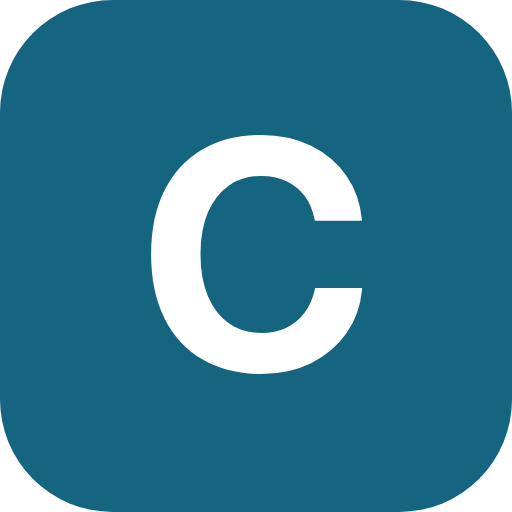
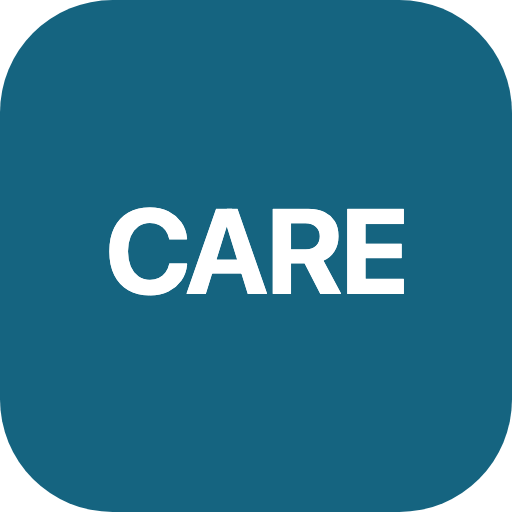
Marke: Raender an den Bildpunkten ausgemessen, Symbol zeigt CARE
Waagrechte Raender: 0,00 px Unterschied (vorher 0,58). Gemessen wird jetzt am
gerenderten Bild, nicht an der Textbox - die Textbox misst die Vorschubbreite
und uebersieht, dass das runde C und das gerade E unterschiedlich viel eigenen
Weissraum mitbringen.

Senkrecht bleiben 0,75 px. Ursache ist nicht die Einstellung: Grossbuchstaben
sitzen in Poppins nicht mittig in der Zeilenbox, und der Browser rundet die
Textlage auf ganze Pixel - die Messung springt in 1-px-Schritten. Zum
Vergleich, mit demselben Verfahren: die Vorlage malzi.me liegt bei 1,09 px
waagrecht und 4,58 px senkrecht.

Symbol zeigt CARE statt C, analog zum malziland-Symbol mit dem m.
Der Zusatz "Klassenchat-Regeln" neben der Marke entfaellt.

Behoben: Beim Zeigen wurde nur "malzi" unterstrichen - die allgemeine Regel
a:hover ueberschrieb die Marke und zerlegte sie optisch in zwei Teile. Ein
Test haelt das fest.

Changed region(s): [[0.1875, 0.25, 0.8125, 0.75]]

diff --git a/public/index.html b/public/index.html
@@ -7,9 +7,9 @@
 <meta name="description" content="Kostenloser Online-Editor für Klassenchat-Regeln: WhatsApp-, Snapchat-, TikTok- oder Signal-Optik wählen, Regeln, Admins und Konsequenzen eintragen und das fertige Plakat als A3-PDF herunterladen. Zero-Knowledge – alle Inhalte bleiben auf deinem Gerät. Von Christoph Krieger (malziland) für Workshops an Schulen.">
 <meta name="author" content="Christoph Krieger, malziland">
 <link rel="canonical" href="https://malzi.care/">
-<link rel="icon" href="favicon.ico?v=34" sizes="48x48">
-<link rel="icon" type="image/png" sizes="32x32" href="assets/favicon-32.png?v=34">
-<link rel="icon" type="image/png" sizes="192x192" href="assets/favicon-192.png?v=34">
+<link rel="icon" href="favicon.ico?v=38" sizes="48x48">
+<link rel="icon" type="image/png" sizes="32x32" href="assets/favicon-32.png?v=38">
+<link rel="icon" type="image/png" sizes="192x192" href="assets/favicon-192.png?v=38">
 <meta name="theme-color" content="#156480">
 <meta property="og:type" content="website">
 <meta property="og:site_name" content="malziland">
@@ -24,8 +24,8 @@
 <meta name="twitter:title" content="malziCARE – Klassenchat-Regeln als A3-Plakat">
 <meta name="twitter:description" content="Regeln für den Klassenchat gemeinsam festlegen und als Plakat in echter WhatsApp-, Snapchat-, TikTok- oder Signal-Optik drucken. Kostenlos, ohne Anmeldung, Zero-Knowledge.">
 <meta name="twitter:image" content="https://malzi.care/assets/og-image.jpg">
-<link rel="apple-touch-icon" sizes="180x180" href="assets/apple-touch-icon.png?v=34">
-<link rel="manifest" href="site.webmanifest?v=34">
+<link rel="apple-touch-icon" sizes="180x180" href="assets/apple-touch-icon.png?v=38">
+<link rel="manifest" href="site.webmanifest?v=38">
 <script type="application/ld+json">
 {
   "@context": "https://schema.org",
@@ -69,16 +69,15 @@
   }
 }
 </script>
-<link rel="stylesheet" href="css/fonts.css?v=34">
-<link rel="stylesheet" href="css/editor.css?v=34">
-<link rel="stylesheet" href="css/poster.css?v=34">
+<link rel="stylesheet" href="css/fonts.css?v=38">
+<link rel="stylesheet" href="css/editor.css?v=38">
+<link rel="stylesheet" href="css/poster.css?v=38">
 </head>
 <body>
 
 <header class="topbar">
   <h1 class="topbar-title">
     <span class="wortmarke">malzi<span class="wortmarke-care">CARE</span></span>
-    <span class="topbar-untertitel">Klassenchat-Regeln</span>
   </h1>
   <div class="topbar-actions">
     <div class="segmented" role="group" aria-label="Chat-Ansicht wählen">
@@ -278,8 +277,8 @@
   <a href="agb.html">AGB</a>
 </footer>
 
-<script src="js/vendor/html-to-image.js?v=34"></script>
-<script src="js/vendor/jspdf.umd.min.js?v=34"></script>
-<script src="js/app.js?v=34"></script>
+<script src="js/vendor/html-to-image.js?v=38"></script>
+<script src="js/vendor/jspdf.umd.min.js?v=38"></script>
+<script src="js/app.js?v=38"></script>
 </body>
 </html>

diff --git a/public/css/editor.css b/public/css/editor.css
@@ -101,11 +101,17 @@ body {
   display: inline-flex;
   align-items: center;
   justify-content: center;
-  /* Rechts der Ausgleich fuer den Buchstabenabstand: Ein negatives
-     letter-spacing wirkt AUCH hinter dem letzten Buchstaben und macht den
-     rechten Innenrand kleiner als den linken. Bei zwei Buchstaben faellt
-     das kaum auf, bei vieren schon. */
-  padding: 3px calc(7px + 0.01em) 4px 7px;
+  /* Die Raender sind an den Bildpunkten des gerenderten Textes gemessen,
+     nicht aus der Textbox gerechnet: Das runde C und das gerade E bringen
+     unterschiedlich viel eigenen Weissraum mit, gleiche Zahlen ergaeben ein
+     sichtbares Ungleichgewicht. Mit 6,71 links und 6,99 rechts steht die
+     Schrift beidseitig 8,25 px vom Rand - Unterschied 0,00 px.
+     Senkrecht bleiben 0,75 px: Grossbuchstaben sitzen in Poppins nicht mittig
+     in der Zeilenbox, und der Browser rundet die Textlage auf ganze Pixel.
+     Zum Vergleich, gleich gemessen: die Vorlage malzi.me liegt bei 1,09 px
+     waagrecht und 4,58 px senkrecht. Ein negativer Buchstabenabstand
+     entfaellt - er wirkt auch hinter dem letzten Zeichen. */
+  padding: 3px 6.99px 4px 6.71px;
   border-radius: 5px;
   background: var(--ml-teal);
   color: #f9f7f4;
@@ -115,19 +121,6 @@ body {
   letter-spacing: -0.01em;
 }
 
-/* Was der Dienst tut, steht neben der Marke: der Name allein erklaert ihn
-   nicht. */
-.topbar-untertitel {
-  font-size: 15px;
-  font-weight: 500;
-  color: var(--ml-warmgray-text);
-}
-
-@media (max-width: 700px) {
-  .topbar-untertitel {
-    display: none;
-  }
-}
 
 .topbar-actions {
   margin-left: auto;

diff --git a/public/impressum.html b/public/impressum.html
@@ -6,9 +6,9 @@
   <title>Impressum – malziCARE</title>
   <meta name="description" content="Impressum von malziCARE. Anbieter: malziland – learning | training | consulting e.U., Inhaber Christoph Krieger, Neuhofen an der Krems, Österreich.">
   <link rel="canonical" href="https://malzi.care/impressum.html">
-  <link rel="icon" href="favicon.ico?v=34" sizes="48x48">
-<link rel="icon" href="favicon.ico?v=34" sizes="48x48">
-<link rel="icon" type="image/png" sizes="32x32" href="assets/favicon-32.png?v=34"><link rel="icon" type="image/png" sizes="192x192" href="assets/favicon-192.png?v=34">
+  <link rel="icon" href="favicon.ico?v=38" sizes="48x48">
+<link rel="icon" href="favicon.ico?v=38" sizes="48x48">
+<link rel="icon" type="image/png" sizes="32x32" href="assets/favicon-32.png?v=38"><link rel="icon" type="image/png" sizes="192x192" href="assets/favicon-192.png?v=38">
   <script type="application/ld+json">
   {
     "@context": "https://schema.org",
@@ -34,11 +34,11 @@
     }
   }
   </script>
-  <link rel="stylesheet" href="assets/legal/legal.css?v=34">
+  <link rel="stylesheet" href="assets/legal/legal.css?v=38">
 </head>
 <body>
   <div class="brand-watermark" aria-hidden="true">
-    <img class="wm-light" src="assets/malziland-m-petrol.png?v=34" alt=""/>
+    <img class="wm-light" src="assets/malziland-m-petrol.png?v=38" alt=""/>
   </div>
 
 <div class="container">

diff --git a/public/datenschutz.html b/public/datenschutz.html
@@ -6,14 +6,14 @@
   <title>Datenschutz – malziCARE</title>
   <meta name="description" content="Datenschutzerklärung von malziCARE: Zero-Knowledge-Prinzip – alle Plakat-Inhalte bleiben lokal auf deinem Gerät. Kein Konto, kein Tracking, keine Datenübertragung.">
   <link rel="canonical" href="https://malzi.care/datenschutz.html">
-  <link rel="icon" href="favicon.ico?v=34" sizes="48x48">
-<link rel="icon" href="favicon.ico?v=34" sizes="48x48">
-<link rel="icon" type="image/png" sizes="32x32" href="assets/favicon-32.png?v=34"><link rel="icon" type="image/png" sizes="192x192" href="assets/favicon-192.png?v=34">
-  <link rel="stylesheet" href="assets/legal/legal.css?v=34">
+  <link rel="icon" href="favicon.ico?v=38" sizes="48x48">
+<link rel="icon" href="favicon.ico?v=38" sizes="48x48">
+<link rel="icon" type="image/png" sizes="32x32" href="assets/favicon-32.png?v=38"><link rel="icon" type="image/png" sizes="192x192" href="assets/favicon-192.png?v=38">
+  <link rel="stylesheet" href="assets/legal/legal.css?v=38">
 </head>
 <body>
   <div class="brand-watermark" aria-hidden="true">
-    <img class="wm-light" src="assets/malziland-m-petrol.png?v=34" alt=""/>
+    <img class="wm-light" src="assets/malziland-m-petrol.png?v=38" alt=""/>
   </div>
 
 <div class="container">

diff --git a/public/agb.html b/public/agb.html
@@ -6,14 +6,14 @@
   <title>AGB – malziCARE</title>
   <meta name="description" content="Nutzungsvereinbarung und AGB von malziCARE. Regelungen zu Nutzung, Inhalten, Haftung und Nutzungsbedingungen.">
   <link rel="canonical" href="https://malzi.care/agb.html">
-  <link rel="icon" href="favicon.ico?v=34" sizes="48x48">
-<link rel="icon" href="favicon.ico?v=34" sizes="48x48">
-<link rel="icon" type="image/png" sizes="32x32" href="assets/favicon-32.png?v=34"><link rel="icon" type="image/png" sizes="192x192" href="assets/favicon-192.png?v=34">
-  <link rel="stylesheet" href="assets/legal/legal.css?v=34">
+  <link rel="icon" href="favicon.ico?v=38" sizes="48x48">
+<link rel="icon" href="favicon.ico?v=38" sizes="48x48">
+<link rel="icon" type="image/png" sizes="32x32" href="assets/favicon-32.png?v=38"><link rel="icon" type="image/png" sizes="192x192" href="assets/favicon-192.png?v=38">
+  <link rel="stylesheet" href="assets/legal/legal.css?v=38">
 </head>
 <body>
   <div class="brand-watermark" aria-hidden="true">
-    <img class="wm-light" src="assets/malziland-m-petrol.png?v=34" alt=""/>
+    <img class="wm-light" src="assets/malziland-m-petrol.png?v=38" alt=""/>
   </div>
 
 <div class="container">

diff --git a/public/assets/legal/legal.css b/public/assets/legal/legal.css
@@ -42,19 +42,26 @@ li a { text-decoration: underline; }
   display: inline-flex;
   align-items: center;
   justify-content: center;
-  padding: 3px calc(7px + 0.01em) 4px 7px;
+  padding: 3px 6.99px 4px 6.71px;
   border-radius: 5px;
   background: var(--ml-teal, #156480);
   color: #f9f7f4;
   font-weight: 700;
-  letter-spacing: -0.01em;
+  letter-spacing: 0;
 }
-a.wortmarke {
+a.wortmarke,
+a.wortmarke:hover,
+a.wortmarke:focus {
+  /* Ausdruecklich auch fuer :hover - sonst gewinnt die allgemeine Regel
+     a:hover{text-decoration:underline} und unterstreicht nur "malzi". Die
+     Marke ist EIN Zeichen; ein Effekt, der nur die Haelfte erfasst, zerlegt
+     sie optisch in zwei Teile. */
   text-decoration: none;
   color: var(--ml-teal, #156480);
 }
-a.wortmarke:hover .wortmarke-care {
-  opacity: 0.88;
+/* Beim Zeigen reagiert die ganze Marke, nicht ein Teil davon. */
+a.wortmarke:hover {
+  opacity: 0.85;
 }
 a.wortmarke:focus-visible {
   outline: 2px solid var(--ml-teal, #156480);

diff --git a/CHANGELOG.md b/CHANGELOG.md
@@ -5,6 +5,72 @@ Versionierung nach [SemVer](https://semver.org/lang/de/).
 
 ## [Unveröffentlicht]
 
+## [1.2.0] – 2026-08-27
+
+### Geändert
+
+- **Markensymbol zeigt `CARE`** statt nur `C` – analog zum malziland-Symbol,
+  das das `m` trägt.
+- **Ränder der Kachel an den Bildpunkten ausgemessen**, nicht aus der Textbox
+  gerechnet: waagrecht 0,00 px Unterschied (vorher 0,58 px). Senkrecht bleiben
+  0,75 px – Großbuchstaben sitzen in Poppins nicht mittig in der Zeilenbox, und
+  der Browser rundet die Textlage auf ganze Pixel. Zum Vergleich, gleich
+  gemessen: die Vorlage malzi.me liegt bei 1,09 px waagrecht und 4,58 px
+  senkrecht.
+- Der Zusatz „Klassenchat-Regeln" neben der Marke entfällt – das Plakat zeigt
+  den Gegenstand selbst.
+
+### Behoben
+
+- Beim Zeigen auf die Wortmarke wurde nur „malzi" unterstrichen: Die
+  allgemeine Regel `a:hover` überschrieb die Marke und zerlegte sie optisch in
+  zwei Teile. Jetzt reagiert sie als ein Zeichen.
+
+## [1.1.0] – 2026-08-27
+
+Erste echte Auslieferung über die neue Kette – und drei Befunde, die dabei
+sichtbar wurden.
+
+### Neu
+
+- **malzi.care** ist die kanonische Adresse. Umgestellt wird an einer Stelle
+  (`site.json`), die Prüfung meldet jede Fundstelle, die nicht passt.
+- **Eigenes Markensymbol** statt des malziland-„m": Teal-Kachel mit weißem C.
+  Erzeugt von `tools/icons-bauen.mjs` aus der Schrift der Seite; die `.ico`
+  baut das Werkzeug selbst und prüft jeden eingebetteten Bildkopf nach.
+- **Wächter über den Cache-Buster** (`tools/cache-buster.mjs`): meldet, wenn
+  sich zwischenspeicherbare Dateien geändert haben, ohne dass der Buster
+  gestiegen ist. `--erhoehen` zieht Buster und alle Verweise in einem Zug nach.
+- **`npm run vor-dem-push`**: dieselben Prüfungen wie die Pipeline, zeigt alle
+  Mängel auf einmal statt beim ersten stehenzubleiben. Von Hand aufgerufen,
+  bewusst kein Git-Hook.
+- **Auslieferung per SFTP** mit `--verbindung` (nur nachsehen), `--probe`
+  (Trockenlauf) und `--aufraeumen` (entfernt Fremddateien im Zielverzeichnis).
+
+### Geändert
+
+- Die Wortmarke sitzt jetzt richtig: 18 px statt 22 px, rechter Innenrand um
+  den Buchstabenabstand ausgeglichen, weniger Verdichtung. Die Werte von
+  malzi.me sind auf zwei Buchstaben abgestimmt, nicht auf vier.
+- Auf allen Unterseiten führt die Wortmarke zurück zum Editor; der Textlink
+  „Zurück zum Editor" entfällt.
+- Stand der Nutzungsvereinbarung und der Datenschutzerklärung: 27. August 2026.
+- Übertragen wird per SFTP statt FTPS – der Server beherrscht kein FTPS, Port 21
+  wäre Klartext gewesen.
+
+### Behoben
+
+- **Die `.htaccess` lag seit dem 21.07.2026 nicht auf dem Server.** Der Fehler
+  von damals war nie behoben, nur nie sichtbar. Seither wurde HTML ohne
+  `no-cache` ausgeliefert.
+- **Ein lokales Startskript lag öffentlich im Web** (`HTTP 200`) und wurde
+  entfernt.
+- **Die Wortmarke erschien in Safari als reiner Text.** Ursache war der nicht
+  erhöhte Cache-Buster: Die Seite forderte weiter `?v=31` an, der Browser nahm
+  seine sieben Tage gültige Kopie. Dagegen wacht jetzt ein eigener Riegel.
+- Beim Zeigen auf die Wortmarke wurde nur „malzi" unterstrichen und die Marke
+  damit optisch in zwei Teile zerlegt.
+
 ## [1.0.0] – 2026-08-27
 
 Erster festgehaltener Stand. Der Editor lief zu diesem Zeitpunkt bereits seit

diff --git a/CLAUDE.md b/CLAUDE.md
@@ -16,7 +16,13 @@ Entwurf. iPhone-Safari zeigt Typen an, die es kennt, statt sie zu laden – und
 der Editor wird auf iPhones benutzt. Ein Test wacht darüber; er ist kein
 Formalismus.
 
-**3. Das Plakat wird gedruckt und aus zwei bis drei Metern gelesen.**
+**3. Wer eine zwischenspeicherbare Datei ändert, erhöht den Cache-Buster.**
+CSS, JavaScript, Symbole, Manifest – alles trägt `max-age=604800`. Bleibt der
+Buster stehen, sehen Browser sieben Tage lang die alte Fassung; genau so
+verschwand am 27.08. die Wortmarke in Safari. `node tools/cache-buster.mjs
+--erhoehen` zieht alles nach, ein Wächter in der Prüfkette meldet den Fall.
+
+**4. Das Plakat wird gedruckt und aus zwei bis drei Metern gelesen.**
 Kontrastwerte am Bildschirm sind nicht der Maßstab. Was Inhalt trägt, muss
 lesbar sein; die App-Nachbildung tritt dahinter zurück (ADR-0003).
 

diff --git a/README.md b/README.md
@@ -24,6 +24,22 @@ npm run verify         # alle Prüfungen: Format, Linter, Verweise, Geheimnisse,
 npm run vor-dem-push   # dieselben Prüfungen wie die Pipeline, vor dem Push
 ```
 
+Wer CSS, JavaScript oder ein Symbol ändert, erhöht danach den Cache-Buster:
+
+```bash
+node tools/cache-buster.mjs --erhoehen
+```
+
+Sonst zeigen Browser bis zu sieben Tage die alte Fassung. Ein Wächter in der
+Prüfkette meldet den Fall; ein Buster, der bei Änderungen nicht steigt, ist
+keiner.
+
+Die Symbole der Marke entstehen aus einem Werkzeug, nicht aus Handarbeit:
+
+```bash
+node tools/icons-bauen.mjs
+```
+
 `vor-dem-push` unterscheidet sich von `verify` in einem Punkt: Es bleibt beim
 ersten Mangel nicht stehen, sondern zeigt alle auf einmal – und prüft zusätzlich,
 was die Pipeline prüft. Es läuft nur, wenn du es aufrufst; es gibt bewusst keinen

diff --git a/docs/RUNBOOK.md b/docs/RUNBOOK.md
@@ -32,6 +32,16 @@ Klartext. Port 22 nimmt dieselben Zugangsdaten verschlüsselt entgegen.
 nicht angetastet – `--aufraeumen` entfernt sie. Grund für die Zurückhaltung:
 Was oben liegt und nicht aus dem Paket stammt, kann auch absichtlich dort sein.
 
+## Nach jeder Änderung an CSS, JavaScript oder Symbolen
+
+```bash
+node tools/cache-buster.mjs --erhoehen
+```
+
+Erhöht die Nummer in `site.json` und zieht jeden Verweis nach. Ohne das
+holt kein Browser die neue Datei – die Adresse bleibt ja dieselbe, und
+Assets dürfen sieben Tage im Zwischenspeicher bleiben.
+
 ## Vor dem Push
 
 ```bash
